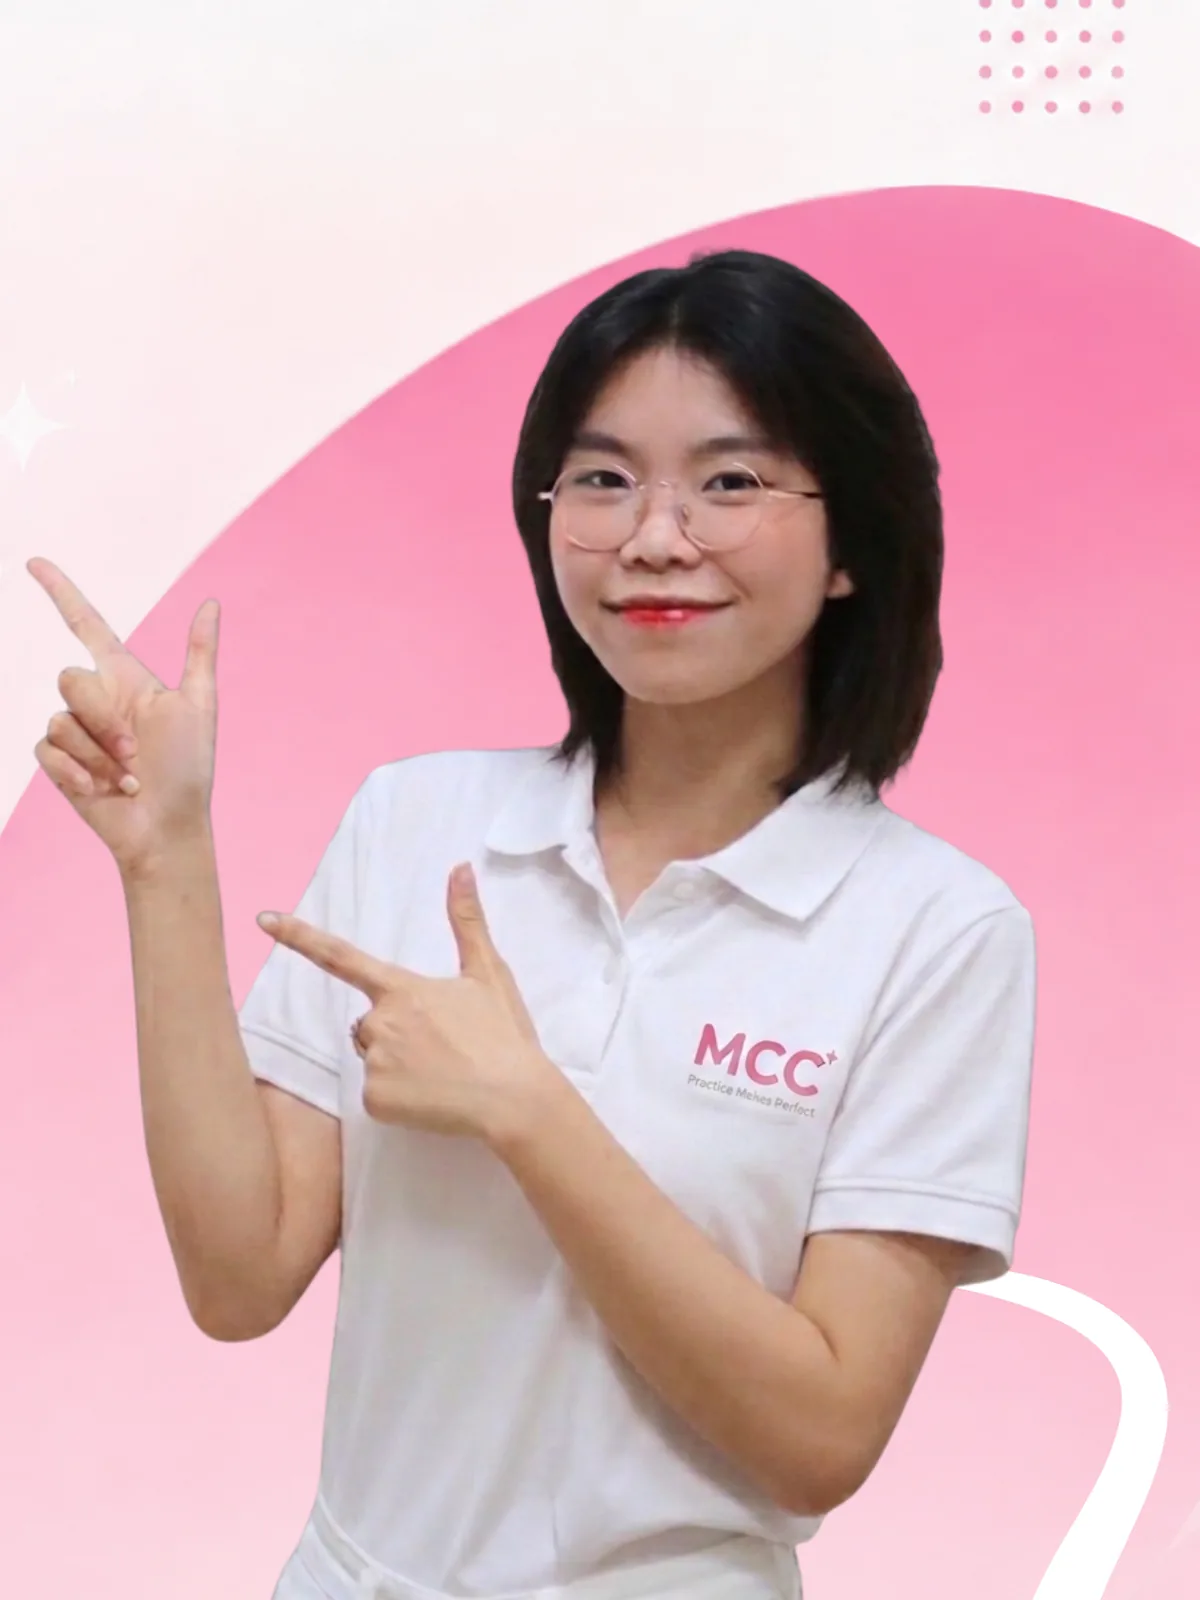
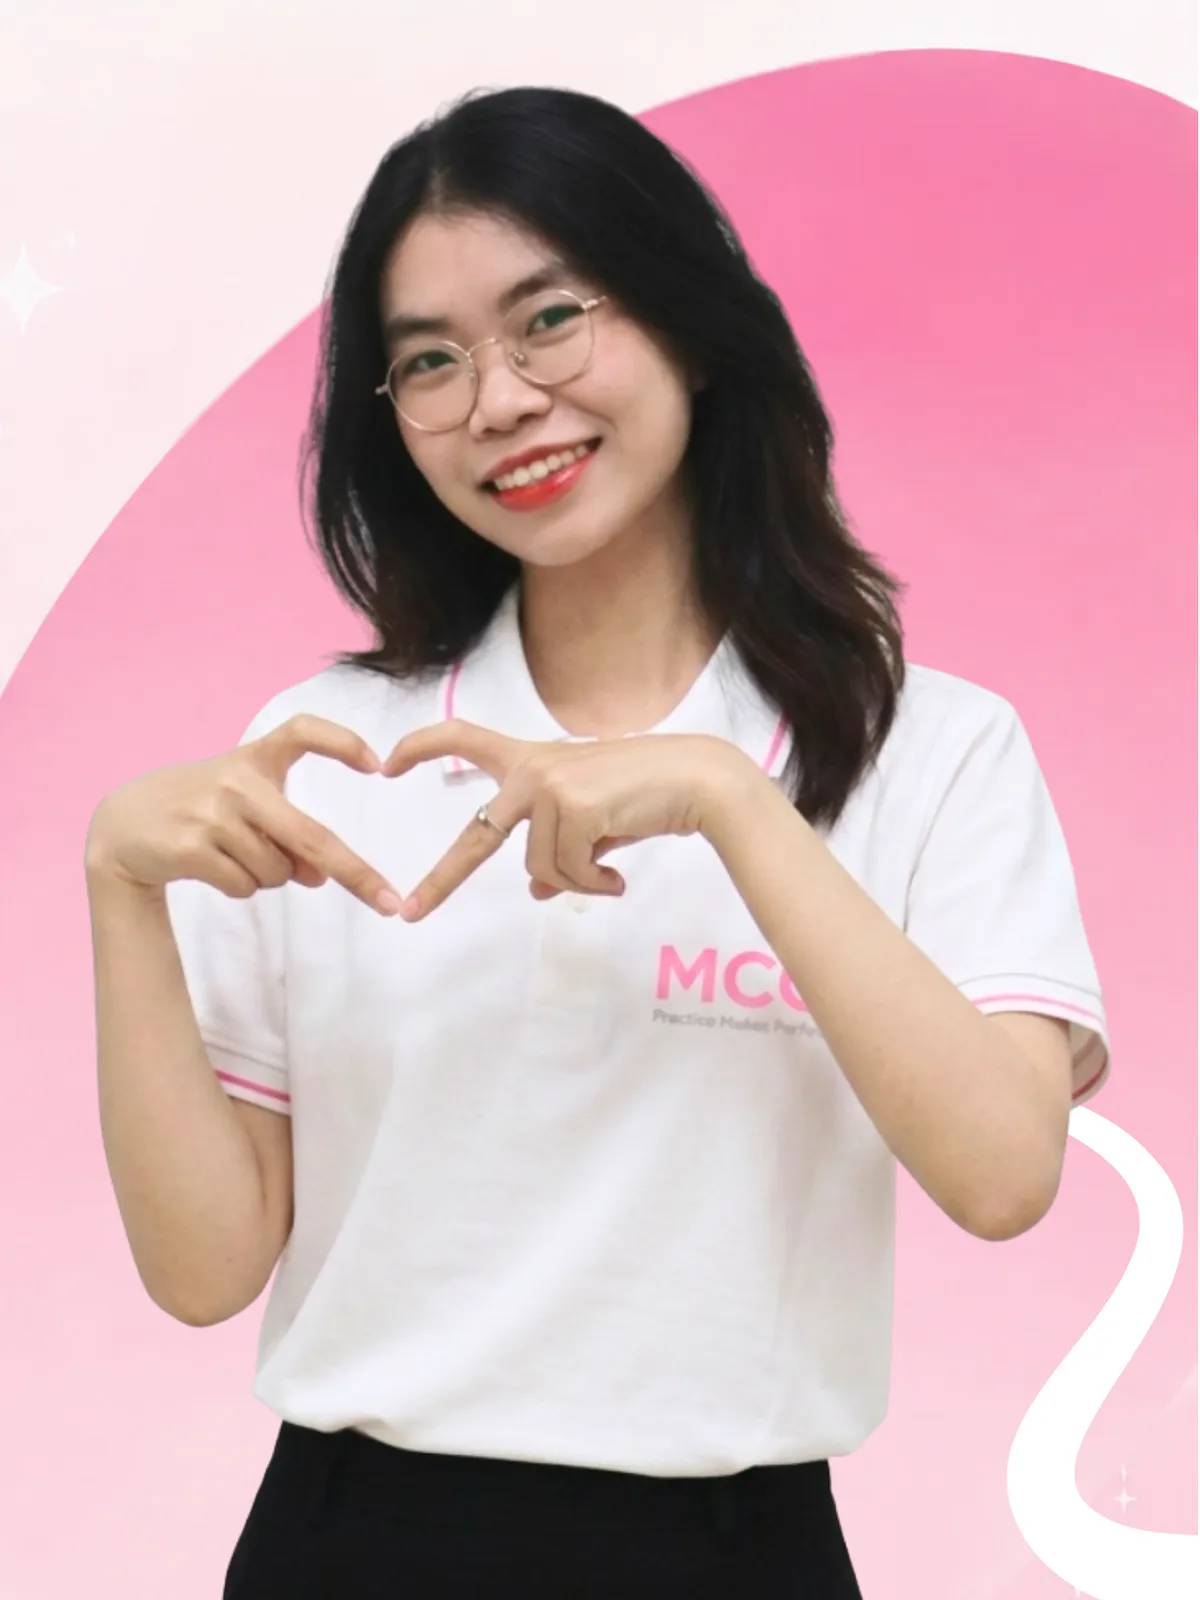
feat(landing): free-learning menu, register consent, new teacher and TA profiles
- Header CTA "Đăng ký học thử" becomes "Học tiếng Trung 0 đồng" (vocab / mock exams)
- Register form requires a personal-data consent checkbox
- Photos for Thuý Mai, Mỹ Tâm, Huyền Anh and a new one for Khánh Linh; TA profiles for Tâm and Huyền Anh

diff --git a/src/app/components/header/header.html b/src/app/components/header/header.html
@@ -20,7 +20,7 @@
         <div class="relative shrink-0 w-10 h-10 overflow-hidden rounded-full border border-brand-pink/20 bg-white p-0.5 shadow-sm group-hover:scale-105 transition-transform duration-300">
           <img ngSrc="android-chrome-192x192.png" width="36" height="36" alt="MCC Logo" class="object-contain" priority />
         </div>
-        <div class="flex flex-col whitespace-nowrap max-[374px]:hidden">
+        <div class="flex flex-col whitespace-nowrap max-[459px]:hidden">
           <span class="text-base min-[400px]:text-lg font-bold font-display tracking-tight text-brand-navy dark:text-white group-hover:text-brand-pink transition-colors duration-300">
             Mayo Creative
           </span>
@@ -31,10 +31,10 @@
       </a>
 
       <!-- Desktop Navigation -->
-      <nav class="hidden lg:flex items-center space-x-8">
+      <nav class="hidden lg:flex items-center space-x-5 xl:space-x-8">
         @for (item of navItems; track item.id) {
           <a [href]="'/#' + item.id"
-             class="text-sm font-medium transition-colors duration-300 relative py-1 after:absolute after:bottom-0 after:left-0 after:w-0 after:h-0.5 after:bg-brand-pink after:transition-all after:duration-300 hover:after:w-full"
+             class="text-sm font-medium whitespace-nowrap transition-colors duration-300 relative py-1 after:absolute after:bottom-0 after:left-0 after:w-0 after:h-0.5 after:bg-brand-pink after:transition-all after:duration-300 hover:after:w-full"
              [class.text-brand-pink]="activeSection() === item.id"
              [class.text-brand-navy]="activeSection() !== item.id && !lightText()"
              [class.text-white]="activeSection() !== item.id && lightText()"
@@ -45,7 +45,7 @@
       </nav>
 
       <!-- Right side Controls -->
-      <div class="hidden lg:flex items-center space-x-4">
+      <div class="hidden lg:flex items-center space-x-3 xl:space-x-4">
         <!-- Language Selector Dropdown -->
         <div class="relative">
           <button (click)="toggleLangDropdown()"
@@ -96,20 +96,35 @@
           }
         </button>
 
-        <!-- Register Trial CTA (Primary Action) -->
-        <button (click)="openRegisterModal()"
-                class="px-5 py-2.5 bg-brand-navy dark:bg-brand-pink hover:bg-brand-pink dark:hover:bg-brand-pink/90 text-white rounded-full text-sm font-semibold tracking-wide shadow-md hover:shadow-lg hover:-translate-y-0.5 transition-all duration-300 cursor-pointer">
-          {{ i18n.translate()('nav.register_trial') }}
-        </button>
+        <!-- Học miễn phí: từ vựng + đề thi thử -->
+        <div class="relative" data-free-menu>
+          <button type="button" (click)="toggleFreeMenu()"
+                  aria-haspopup="menu" [attr.aria-expanded]="isFreeMenuOpen()"
+                  class="flex items-center gap-1.5 whitespace-nowrap px-4 xl:px-5 py-2.5 bg-brand-navy dark:bg-brand-pink hover:bg-brand-pink dark:hover:bg-brand-pink/90 text-white rounded-full text-sm font-semibold tracking-wide shadow-md hover:shadow-lg hover:-translate-y-0.5 transition-all duration-300 cursor-pointer">
+            <span>{{ i18n.translate()('nav.free_learning') }}</span>
+            <svg xmlns="http://www.w3.org/2000/svg" fill="none" viewBox="0 0 24 24" stroke-width="2.5" stroke="currentColor" class="w-3 h-3 transition-transform duration-300" [class.rotate-180]="isFreeMenuOpen()">
+              <path stroke-linecap="round" stroke-linejoin="round" d="M19.5 8.25l-7.5 7.5-7.5-7.5" />
+            </svg>
+          </button>
+          @if (isFreeMenuOpen()) {
+            <ng-container *ngTemplateOutlet="freeMenu; context: { $implicit: 'right-0' }" />
+          }
+        </div>
       </div>
 
       <!-- Mobile Controls -->
       <div class="lg:hidden flex shrink-0 items-center gap-1.5 min-[360px]:gap-3">
-        <!-- Register Trial CTA for Mobile/Tablet (Visible out of Drawer) -->
-        <button (click)="openRegisterModal()"
-                class="px-3.5 py-1.5 whitespace-nowrap bg-brand-pink text-white rounded-full text-xs font-bold shadow-md hover:shadow-lg hover:-translate-y-0.5 transition-all duration-300 cursor-pointer animate-subtle-glow">
-          {{ i18n.translate()('nav.register_trial') }}
-        </button>
+        <!-- Học miễn phí (ngoài ngăn kéo menu) -->
+        <div class="relative" data-free-menu>
+          <button type="button" (click)="toggleFreeMenu()"
+                  aria-haspopup="menu" [attr.aria-expanded]="isFreeMenuOpen()"
+                  class="px-3.5 py-1.5 whitespace-nowrap bg-brand-pink text-white rounded-full text-xs font-bold shadow-md hover:shadow-lg hover:-translate-y-0.5 transition-all duration-300 cursor-pointer animate-subtle-glow">
+            {{ i18n.translate()('nav.free_learning') }}
+          </button>
+          @if (isFreeMenuOpen()) {
+            <ng-container *ngTemplateOutlet="freeMenu; context: { $implicit: '-right-12 min-[400px]:right-0' }" />
+          }
+        </div>
 
         <button (click)="toggleMobileMenu()"
                 class="p-2 rounded-md text-brand-navy dark:text-white hover:text-brand-pink focus:outline-none"
@@ -193,3 +208,22 @@
     </div>
   </div>
 </header>
+
+<ng-template #freeMenu let-position>
+  <div role="menu" class="absolute mt-2 w-56 rounded-2xl bg-white dark:bg-brand-dark border border-brand-navy/5 dark:border-white/10 shadow-xl p-2 z-50 {{ position }}">
+    <a routerLink="/flashcards" role="menuitem" (click)="closeMenus()"
+       class="flex items-center gap-3 px-3 py-2.5 rounded-xl text-sm font-semibold text-brand-navy dark:text-white hover:bg-brand-pink hover:text-white transition-colors">
+      <svg xmlns="http://www.w3.org/2000/svg" fill="none" viewBox="0 0 24 24" stroke-width="1.8" stroke="currentColor" class="w-5 h-5 shrink-0">
+        <path stroke-linecap="round" stroke-linejoin="round" d="M12 6.042A8.967 8.967 0 006 3.75c-1.052 0-2.062.18-3 .512v14.25A8.987 8.987 0 016 18c2.305 0 4.408.867 6 2.292m0-14.25a8.966 8.966 0 016-2.292c1.052 0 2.062.18 3 .512v14.25A8.987 8.987 0 0018 18a8.967 8.967 0 00-6 2.292m0-14.25v14.25" />
+      </svg>
+      <span>{{ i18n.translate()('nav.free_vocab') }}</span>
+    </a>
+    <a routerLink="/exams" role="menuitem" (click)="closeMenus()"
+       class="flex items-center gap-3 px-3 py-2.5 rounded-xl text-sm font-semibold text-brand-navy dark:text-white hover:bg-brand-pink hover:text-white transition-colors">
+      <svg xmlns="http://www.w3.org/2000/svg" fill="none" viewBox="0 0 24 24" stroke-width="1.8" stroke="currentColor" class="w-5 h-5 shrink-0">
+        <path stroke-linecap="round" stroke-linejoin="round" d="M16.862 4.487l1.687-1.688a1.875 1.875 0 112.652 2.652L10.582 16.07a4.5 4.5 0 01-1.897 1.13L6 18l.8-2.685a4.5 4.5 0 011.13-1.897l8.932-8.931zm0 0L19.5 7.125M18 14v4.75A2.25 2.25 0 0115.75 21H5.25A2.25 2.25 0 013 18.75V8.25A2.25 2.25 0 015.25 6H10" />
+      </svg>
+      <span>{{ i18n.translate()('nav.free_exams') }}</span>
+    </a>
+  </div>
+</ng-template>

diff --git a/src/app/components/header/header.ts b/src/app/components/header/header.ts
@@ -1,25 +1,27 @@
 import { Component, computed, inject, input, signal } from '@angular/core';
-import { NgOptimizedImage } from '@angular/common';
+import { NgOptimizedImage, NgTemplateOutlet } from '@angular/common';
+import { RouterLink } from '@angular/router';
 import { I18nService, Lang } from '../../services/i18n.service';
 import { ThemeService } from '../../services/theme.service';
-import { RegisterModalService } from '../../services/register-modal.service';
 
 @Component({
   selector: 'app-header',
-  imports: [NgOptimizedImage],
+  imports: [NgOptimizedImage, NgTemplateOutlet, RouterLink],
   templateUrl: './header.html',
   host: {
-    '(window:scroll)': 'onWindowScroll()'
+    '(window:scroll)': 'onWindowScroll()',
+    '(document:click)': 'onDocumentClick($event)',
+    '(document:keydown.escape)': 'closeMenus()',
   }
 })
 export class HeaderComponent {
   protected readonly i18n = inject(I18nService);
   protected readonly theme = inject(ThemeService);
-  protected readonly registerModal = inject(RegisterModalService);
 
   readonly isScrolled = signal(false);
   readonly isMobileMenuOpen = signal(false);
   readonly isLangDropdownOpen = signal(false);
+  readonly isFreeMenuOpen = signal(false);
   readonly activeSection = signal('home');
 
   /** Trang có phần đầu nền tối (VD: trang khoá học) — header trong suốt cần chữ sáng */
@@ -30,8 +32,19 @@ export class HeaderComponent {
   readonly onDarkHero = computed(() => this.overDarkHero() && !this.isSolid());
   readonly lightText = computed(() => this.theme.isDarkMode() || this.onDarkHero());
 
-  openRegisterModal(): void {
-    this.registerModal.open();
+  toggleFreeMenu(): void {
+    this.isFreeMenuOpen.update(v => !v);
+  }
+
+  closeMenus(): void {
+    this.isFreeMenuOpen.set(false);
+    this.isLangDropdownOpen.set(false);
+  }
+
+  onDocumentClick(event: MouseEvent): void {
+    if (this.isFreeMenuOpen() && !(event.target as Element | null)?.closest('[data-free-menu]')) {
+      this.isFreeMenuOpen.set(false);
+    }
   }
 
   readonly navItems = [

diff --git a/src/app/components/shared/register-modal/register-modal.ts b/src/app/components/shared/register-modal/register-modal.ts
@@ -21,6 +21,8 @@ export class RegisterModalComponent {
   readonly birthYear = signal('');
   readonly phoneNumber = signal('');
   readonly email = signal('');
+  /** Đồng ý cho MCC dùng thông tin để liên hệ (Nghị định 13/2023/NĐ-CP) — bắt buộc, không tick sẵn */
+  readonly consent = signal(false);
   /** Hình thức học — chỉ hiện khi mở từ trang khóa học */
   readonly studyMode = signal<'online' | 'offline' | 'undecided'>('undecided');
   readonly studyModes = ['online', 'offline', 'undecided'] as const;
@@ -30,6 +32,7 @@ export class RegisterModalComponent {
   readonly birthYearTouched = signal(false);
   readonly phoneNumberTouched = signal(false);
   readonly emailTouched = signal(false);
+  readonly consentTouched = signal(false);
 
   // Submission States
   readonly isSubmitting = signal(false);
@@ -80,7 +83,8 @@ export class RegisterModalComponent {
       this.isFullNameValid() &&
       this.isBirthYearValid() &&
       this.isPhoneNumberValid() &&
-      this.isEmailValid()
+      this.isEmailValid() &&
+      this.consent()
     );
   });
 
@@ -118,6 +122,7 @@ export class RegisterModalComponent {
     this.birthYearTouched.set(true);
     this.phoneNumberTouched.set(true);
     this.emailTouched.set(true);
+    this.consentTouched.set(true);
 
     if (!this.isFormValid() || this.isSubmitting()) {
       return;
@@ -161,6 +166,8 @@ export class RegisterModalComponent {
     this.birthYear.set('');
     this.phoneNumber.set('');
     this.email.set('');
+    this.consent.set(false);
+    this.consentTouched.set(false);
     this.studyMode.set('undecided');
     this.fullNameTouched.set(false);
     this.birthYearTouched.set(false);

diff --git a/src/app/components/teachers/teachers.ts b/src/app/components/teachers/teachers.ts
@@ -121,7 +121,7 @@ export class TeachersComponent {
     },
     {
       id: 'thuymai',
-      initial: 'M',
+      image: 'teacher-introduce/ThuyMai.webp',
       nameKey: 'teacher.thuymai.name',
       roleKey: 'teachers.role.teacher',
       bioKey: 'teacher.thuymai.bio',
@@ -143,6 +143,32 @@ export class TeachersComponent {
         'teacher.linh.cred2',
         'teacher.linh.cred3',
         'teacher.linh.cred4'
+      ]
+    },
+    {
+      id: 'tam',
+      image: 'teacher-introduce/MyTam.webp',
+      nameKey: 'teacher.tam.name',
+      roleKey: 'teachers.role.tutor',
+      bioKey: 'teacher.tam.bio',
+      credentials: [
+        'teacher.tam.cred1',
+        'teacher.tam.cred2',
+        'teacher.tam.cred3',
+        'teacher.tam.cred4'
+      ]
+    },
+    {
+      id: 'huyenanh',
+      image: 'teacher-introduce/HuyenAnh.webp',
+      nameKey: 'teacher.huyenanh.name',
+      roleKey: 'teachers.role.tutor',
+      bioKey: 'teacher.huyenanh.bio',
+      credentials: [
+        'teacher.huyenanh.cred1',
+        'teacher.huyenanh.cred2',
+        'teacher.huyenanh.cred3',
+        'teacher.huyenanh.cred4'
       ]
     }
   ];

diff --git a/src/app/components/shared/register-modal/register-modal.html b/src/app/components/shared/register-modal/register-modal.html
@@ -207,6 +207,25 @@
               </div>
             }
 
+            <!-- Đồng ý xử lý dữ liệu cá nhân -->
+            <div>
+              <label class="flex items-start gap-2.5 cursor-pointer">
+                <input type="checkbox"
+                       [checked]="consent()"
+                       (change)="consent.set($any($event.target).checked)"
+                       class="mt-0.5 w-4 h-4 shrink-0 rounded accent-brand-pink cursor-pointer"
+                       required />
+                <span class="text-xs leading-relaxed text-brand-navy/80 dark:text-brand-text-dark/80">
+                  {{ i18n.translate()('register.consent') }}
+                </span>
+              </label>
+              @if (consentTouched() && !consent()) {
+                <span class="block text-[11px] font-semibold text-brand-pink mt-1 animate-fade-in">
+                  {{ i18n.translate()('register.validation.consent') }}
+                </span>
+              }
+            </div>
+
             <!-- Submit Button -->
             <div class="pt-2">
               <button type="submit"
